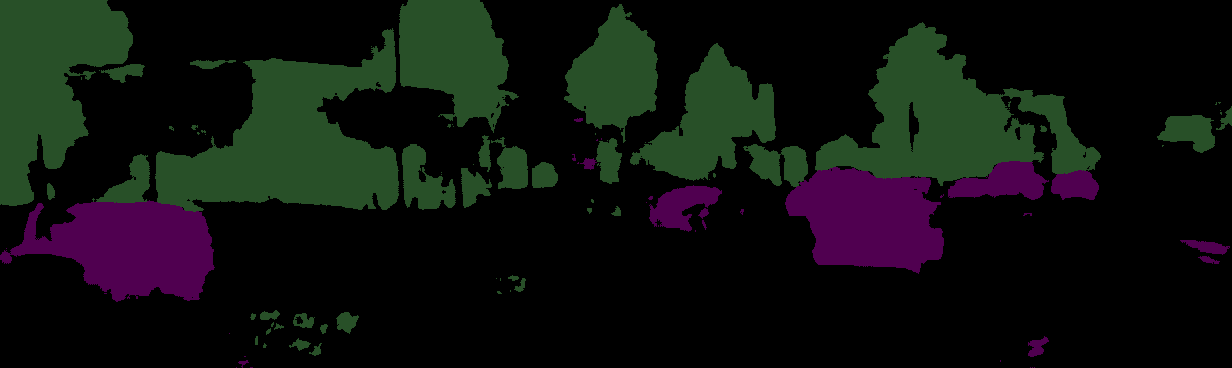
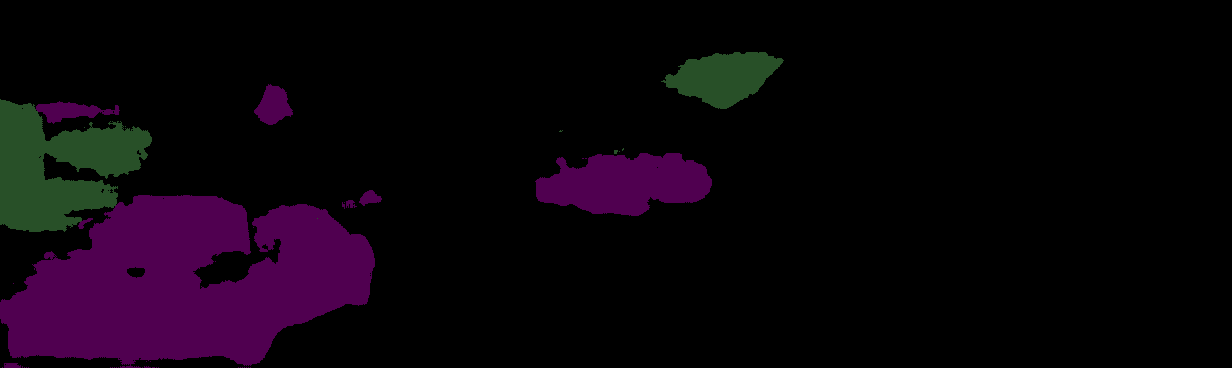
pytorch files

diff --git a/main_pytorch.py b/main_pytorch.py
@@ -1,0 +1,151 @@
+from unet_pytorch import UNet
+import os
+import glob
+from PIL import Image
+import torch
+import torch.nn as nn
+import torchvision.transforms as T
+
+
+# from main.py
+import cv2
+import numpy as np
+from keras.utils.np_utils import to_categorical
+from keras.models import load_model
+
+import re
+def atoi(text):
+    return int(text) if text.isdigit() else text
+
+def natural_keys(text):
+    return [ atoi(c) for c in re.split(r'(\d+)', text) ]
+
+device = 'cuda' if torch.cuda.is_available else 'cpu' 
+print("device : "+str(device))
+
+n_classes = 4  # Number of classes for segmentation
+
+def collect_images(path):
+    images_set = []
+    for directory_path in glob.glob(path):
+        for img_path in sorted(glob.glob(os.path.join(directory_path, "*.png")), key=natural_keys):
+            img = cv2.imread(img_path, 1)
+            # img = cv2.resize(img, (SIZE_Y, SIZE_X))
+            images_set.append(img)
+    return images_set
+
+
+train_images = collect_images("train_image/")
+train_images = np.array(train_images)
+
+train_masks = collect_images("train_semantic/")
+train_masks = np.array(train_masks)
+train_masks = train_masks[:, :, :, 0]
+
+#########data normalization
+train_images = np.expand_dims(train_images, axis=4)
+train_images = train_images / 255
+
+train_masks_input = np.expand_dims(train_masks, axis=3)
+
+y_train = train_masks_input
+X_train = train_images
+
+############make train mask data which have 4 categories to display data in categorical way
+
+train_masks_cat = to_categorical(y_train, num_classes=n_classes)
+y_train_cat = train_masks_cat.reshape((y_train.shape[0], y_train.shape[1], y_train.shape[2], n_classes))
+###############################################################
+
+
+IMG_HEIGHT = X_train.shape[1]
+IMG_WIDTH = X_train.shape[2]
+IMG_CHANNELS = X_train.shape[3]
+
+X_train = torch.from_numpy(X_train.astype(np.float32)).clone().squeeze().permute(0,3,1,2)
+y_train_cat = torch.from_numpy(y_train_cat.astype(np.float32)).clone().permute(0,3,1,2)
+
+
+
+model = UNet(n_classes, IMG_HEIGHT, IMG_WIDTH, IMG_CHANNELS).to(device)
+optimizer = torch.optim.Adam(params=model.parameters(),lr=1e-4)
+criterion = nn.CrossEntropyLoss()
+#torch.set_printoptions(edgeitems=500)
+to_pil_image = T.ToPILImage()
+print("=========start training========")
+for i in range(X_train.shape[0]):
+    print("step:"+str(i))
+    model.train()
+    x = X_train[i,:,:,:].to(device)
+    y = y_train_cat[i,:,:,:].to(device)
+    predict = model(x)
+    #ans = to_pil_image(predict)
+    #ans.save('pred'+str(i)+'.png')
+    #print(predict)
+    #print(y)
+
+    loss = criterion(predict, y)
+    
+    optimizer.zero_grad()
+    loss.backward()
+    optimizer.step()
+    print(f"loss:{loss.item()}")
+
+torch.save(model.to('cpu').state_dict(), 'pytorch_weight.pth')
+
+
+
+############## predict
+
+class Predict:
+
+    def __init__(self, model_parameter_file_name, test_image_path):
+        self.model_parameter_file_name = model_parameter_file_name
+        self.test_images = collect_images("%s" % test_image_path)
+
+    def write_predicted_images(self):
+        test_images = self.test_images
+        test_images = np.expand_dims(test_images, axis=4)
+        test_images = test_images / 255
+        test_images = torch.from_numpy(test_images.astype(np.float32)).clone().squeeze().permute(0,3,1,2).to('cpu')
+        model = UNet(n_classes, IMG_HEIGHT, IMG_WIDTH, IMG_CHANNELS)
+        model.load_state_dict(torch.load(self.model_parameter_file_name, map_location=torch.device('cpu')))
+        model.eval()
+        with torch.no_grad():
+            for i in range(test_images.shape[0]):
+                y_pred = model(test_images[i, :, :, :])
+                
+                #ans = to_pil_image(y_pred)
+                #ans.save('pred'+str(i)+'.png')
+                
+                y_pred = y_pred#.permute(1, 2, 0)
+                y_pred = y_pred.detach().numpy().copy().transpose((1, 2, 0))
+                max = np.argmax(y_pred, axis=2)
+                max = max * 40
+                gray_img = np.zeros((368, 1232, 3))
+                gray_img = gray_img.astype('int8')
+                gray_img[:, :, 0] = max
+                gray_img[:, :, 1] = max * 2
+                gray_img[:, :, 2] = max
+                cv2.imwrite('predict/%d_pytorch.png' % i, gray_img)
+
+
+Predict('pytorch_weight.pth', "./testing_images/").write_predicted_images()
+
+"""
+########### load and continue to run the model
+
+# uncomment if you would like to continue to run
+
+# model_cont_run = load_model('test6.hdf5', compile=False)
+#
+# model_cont_run.compile(optimizer='adam', loss='categorical_crossentropy', metrics=['accuracy'])
+#
+# history = model_cont_run.fit(X_train, y_train_cat,
+#                              batch_size=4,
+#                              verbose=1,
+#                              epochs=30,
+#                              shuffle=False)
+#
+# model_cont_run.save('test8.hdf5')
+"""

diff --git a/unet_pytorch.py b/unet_pytorch.py
@@ -1,6 +1,5 @@
-from tokenize import Double
 import torch
-import torch.nn as nn]
+import torch.nn as nn
 import torch.nn.functional as F
 import torchvision.transforms as T
 
@@ -9,24 +8,31 @@ class DoubleConv(nn.Module):
         super().__init__()
         if not mid_channels:
             mid_channels = out_channels
+        self.conv1 = nn.Conv2d(in_channels, mid_channels, kernel_size=3, padding=1, bias=False)
+        self.conv2 = nn.Conv2d(mid_channels, out_channels, kernel_size=3, padding=1, bias=False)
+        torch.nn.init.kaiming_normal_(self.conv1.weight)
+        torch.nn.init.kaiming_normal_(self.conv2.weight)
+        self.drop_out = nn.Dropout2d(p=drop_rate)
+        self.relu = nn.ReLU(inplace=True)
         if not drop_rate:
             self.double_conv = nn.Sequential(
-            nn.Conv2D(in_channels, mid_channels, kernel_size=3, padding=1, bias=False),
-            nn.ReLU(inplace=True),
-            nn.Conv2D(mid_channels, out_channels, kernel_size=3, padding=1, bias=False),
-            nn.ReLU(inplace=True)
-        )
+            self.conv1,
+            self.relu,
+            self.conv2,
+            self.relu
+            )
         else:
             self.double_conv = nn.Sequential(
-                nn.Conv2D(in_channels, mid_channels, kernel_size=3, padding=1, bias=False),
-                nn.ReLU(inplace=True),
-                nn.Dropout2d(p=drop_rate),
-                nn.Conv2D(mid_channels, out_channels, kernel_size=3, padding=1, bias=False),
-                nn.ReLU(inplace=True)
+                self.conv1,
+                self.relu,
+                self.drop_out,
+                self.conv2,
+                self.relu
             )
+        
 
     def forward(self, x):
-        x = nn.double_conv(x)
+        x = self.double_conv(x)
         return x
 
 class MaxPool(nn.Module):
@@ -42,6 +48,7 @@ class UpConv(nn.Module):
     def __init__(self, in_channels):
         super().__init__()
         self.up_conv = nn.ConvTranspose2d(in_channels, in_channels // 2, kernel_size=2, stride=2)
+        torch.nn.init.kaiming_normal_(self.up_conv.weight)
     
     def forward(self, x):
         x = self.up_conv(x)
@@ -92,22 +99,22 @@ class UNet(nn.Module):
 
         # Expansive path
         x6 = self.up_conv1(x5)
-        center_crop = T.CenterCrop(x6.shape[2:])
+        center_crop = T.CenterCrop(x6.shape[1:])
         x6 = torch.cat([x6, center_crop(x4)])
         x6 = self.double_conv6(x6)
 
-        x7 = self.up_conv1(x6)
-        center_crop = T.CenterCrop(x7.shape[2:])
+        x7 = self.up_conv2(x6)
+        center_crop = T.CenterCrop(x7.shape[1:])
         x7 = torch.cat([x7, center_crop(x3)])
         x7 = self.double_conv7(x7)
 
-        x8 = self.up_conv1(x7)
-        center_crop = T.CenterCrop(x8.shape[2:])
+        x8 = self.up_conv3(x7)
+        center_crop = T.CenterCrop(x8.shape[1:])
         x8 = torch.cat([x8, center_crop(x2)])
         x8 = self.double_conv8(x8)
 
-        x9 = self.up_conv1(x8)
-        center_crop = T.CenterCrop(x9.shape[2:])
+        x9 = self.up_conv4(x8)
+        center_crop = T.CenterCrop(x9.shape[1:])
         x9 = torch.cat([x9, center_crop(x1)])
         x9 = self.double_conv9(x9)
         
